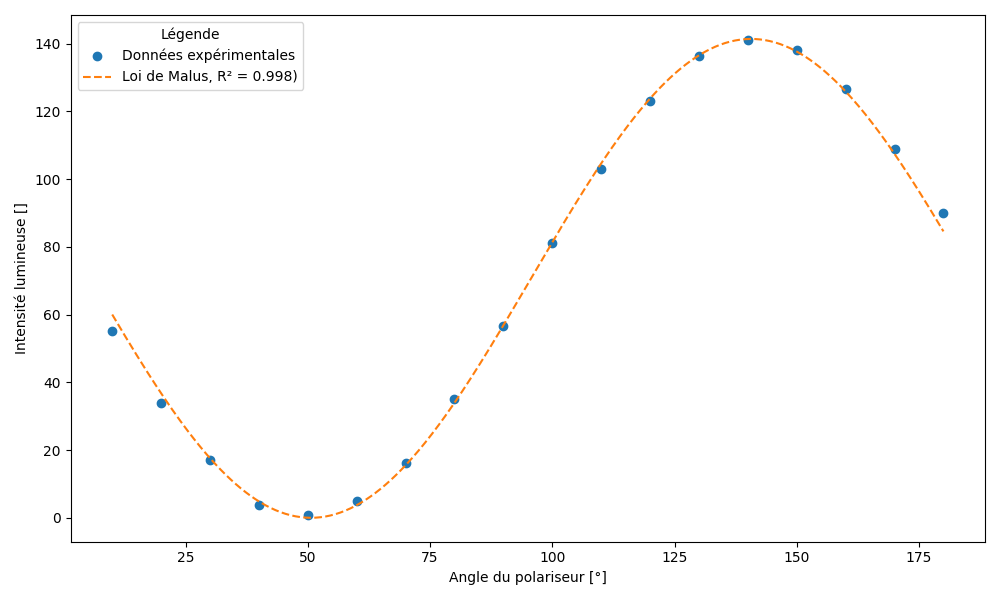
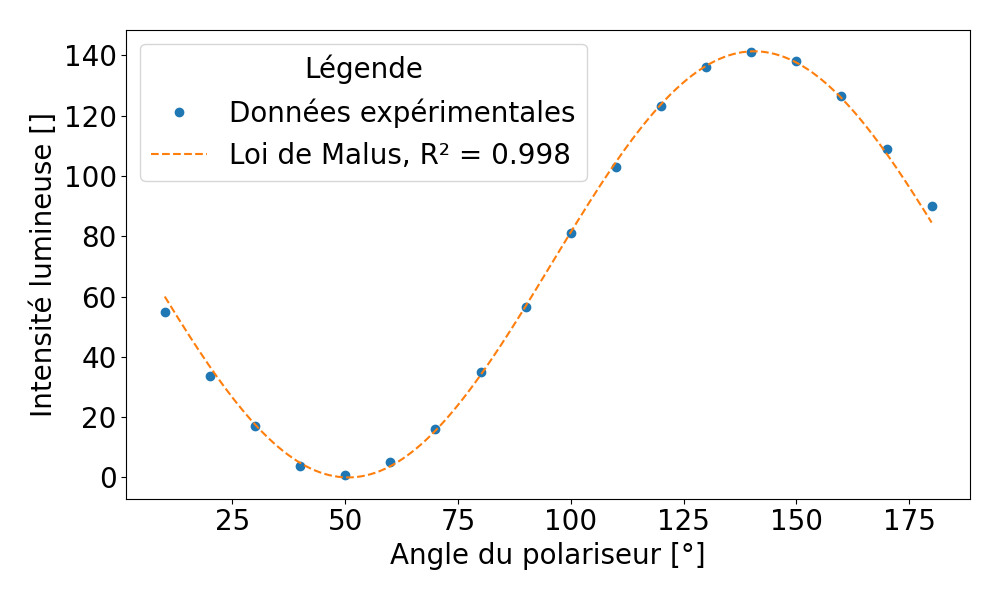
modification de figure

diff --git a/analayse_glandu.py b/analayse_glandu.py
@@ -5,6 +5,9 @@ import matplotlib.pyplot as plt
 import numpy as np
 from scipy.optimize import curve_fit
 
+# Augmenter la taille globale de la police (par défaut environ 10, ici on passe à 20)
+plt.rcParams.update({'font.size': 20})
+
 # Fonction à ajuster (loi de Malus : I = I0 * cos²(θ - θ0))
 def malus_law(theta, I0, theta0):
     return I0 * np.cos(np.radians(theta - theta0)) ** 2
@@ -75,20 +78,122 @@ try:
         print(f"R² = {r_squared:.4f}")
         
         # Tracer les données expérimentales
-        ax1.plot(x, y, 'o', label=f"Données expérimentales")
+        ax1.plot(x, y, 'o', label="Données expérimentales")
         
         # Tracer la courbe ajustée
         x_fit = np.linspace(min(x), max(x), 500)  # Générer des points pour une courbe lisse
         y_fit = malus_law(x_fit, *popt)  # Calculer les valeurs ajustées
-        ax1.plot(x_fit, y_fit, '--', label=f"Loi de Malus, R² = {r_squared:.3f})")
-
+        ax1.plot(x_fit, y_fit, '--', label=f"Loi de Malus, R² = {r_squared:.3f}")
+    
     # Ajouter des labels
     ax1.set_xlabel("Angle du polariseur [°]")
     ax1.set_ylabel("Intensité lumineuse []")
-
+    ax1.set_title("")
+    
     # Ajouter une légende
     ax1.legend(title="Légende")
+    
+    # Afficher le graphique
+    plt.tight_layout()
+    plt.show()
 
+except Exception as e:
+    print(f"Erreur : {e}")
+import io
+import requests
+import pandas as pd
+import matplotlib.pyplot as plt
+import numpy as np
+from scipy.optimize import curve_fit
+
+# Augmenter la taille globale de la police (par défaut environ 10, ici on passe à 20)
+plt.rcParams.update({'font.size': 20})
+
+# Fonction à ajuster (loi de Malus : I = I0 * cos²(θ - θ0))
+def malus_law(theta, I0, theta0):
+    return I0 * np.cos(np.radians(theta - theta0)) ** 2
+
+# Fonction pour calculer R²
+def calculate_r_squared(y_true, y_pred):
+    ss_res = np.sum((y_true - y_pred) ** 2)  # Somme des carrés des résidus
+    ss_tot = np.sum((y_true - np.mean(y_true)) ** 2)  # Somme totale des carrés
+    r_squared = 1 - (ss_res / ss_tot)  # Coefficient de détermination R²
+    return r_squared
+
+# URL du fichier CSV
+url = "https://raw.githubusercontent.com/LouFokke/TPOP_lou_et_melo_OwO/main/DB/data_base_glendu/"
+fichier_csv = "D_Loi_de_malus.csv"
+file_path = url + fichier_csv
+print(f"Téléchargement des données depuis : {file_path}")
+
+try:
+    # Télécharger le fichier CSV
+    response = requests.get(file_path)
+    if response.status_code != 200:
+        raise ValueError(f"Échec du téléchargement : Code {response.status_code}")
+
+    # Lire le CSV avec pandas
+    data = pd.read_csv(io.StringIO(response.text), sep=';', encoding='utf-8')
+
+    # Vérifier le fichier
+    print("Aperçu des données :")
+    print(data.head())
+
+    # Convertir les colonnes en numériques pour éviter les erreurs
+    data = data.apply(pd.to_numeric, errors='coerce')
+
+    # Vérifier si le fichier est vide
+    if data.empty:
+        raise ValueError("Le fichier CSV est vide ou mal chargé.")
+
+    # Initialisation de l'objet figure
+    fig, ax1 = plt.subplots(figsize=(10, 6))
+
+    # Parcourir toutes les colonnes par paires X-Y
+    for i in range(0, len(data.columns), 2):
+        if i + 1 >= len(data.columns):
+            raise ValueError("Le nombre de colonnes n'est pas pair.")
+        
+        x_col = data.columns[i]  # Colonne X (angle)
+        y_col = data.columns[i + 1]  # Colonne Y (intensité)
+        
+        # Récupérer les données pour chaque paire X-Y
+        x = data[x_col]
+        y = data[y_col]
+        
+        # Vérifier les données
+        print(f"Colonne X : {x_col}")
+        print(f"Colonne Y : {y_col}")
+        print(f"Données X : {x}")
+        print(f"Données Y : {y}")
+        
+        # Curve fitting : ajuster la loi de Malus aux données
+        popt, pcov = curve_fit(malus_law, x, y, p0=[max(y), 0])  # p0 : estimations initiales
+        I0, theta0 = popt  # Paramètres optimisés
+        
+        # Calculer les valeurs prédites par le modèle
+        y_pred = malus_law(x, *popt)
+        
+        # Calculer R²
+        r_squared = calculate_r_squared(y, y_pred)
+        print(f"R² = {r_squared:.4f}")
+        
+        # Tracer les données expérimentales
+        ax1.plot(x, y, 'o', label="Données expérimentales")
+        
+        # Tracer la courbe ajustée
+        x_fit = np.linspace(min(x), max(x), 500)  # Générer des points pour une courbe lisse
+        y_fit = malus_law(x_fit, *popt)  # Calculer les valeurs ajustées
+        ax1.plot(x_fit, y_fit, '--', label=f"Loi de Malus, R² = {r_squared:.3f}")
+    
+    # Ajouter des labels
+    ax1.set_xlabel("Angle du polariseur [°]")
+    ax1.set_ylabel("Intensité lumineuse [μA]")
+    ax1.set_title("Vérification de la loi de Malus")
+    
+    # Ajouter une légende
+    ax1.legend(title="Légende")
+    
     # Afficher le graphique
     plt.tight_layout()
     plt.show()
